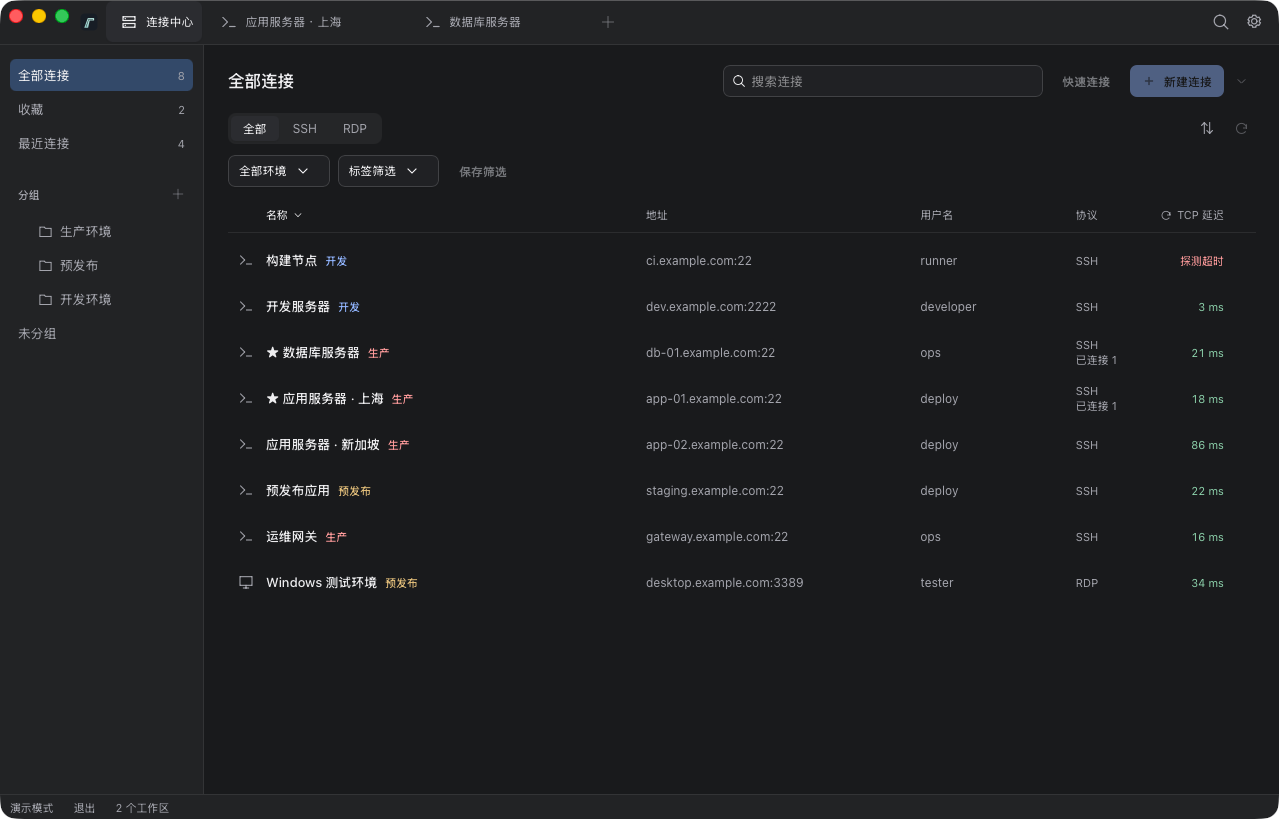
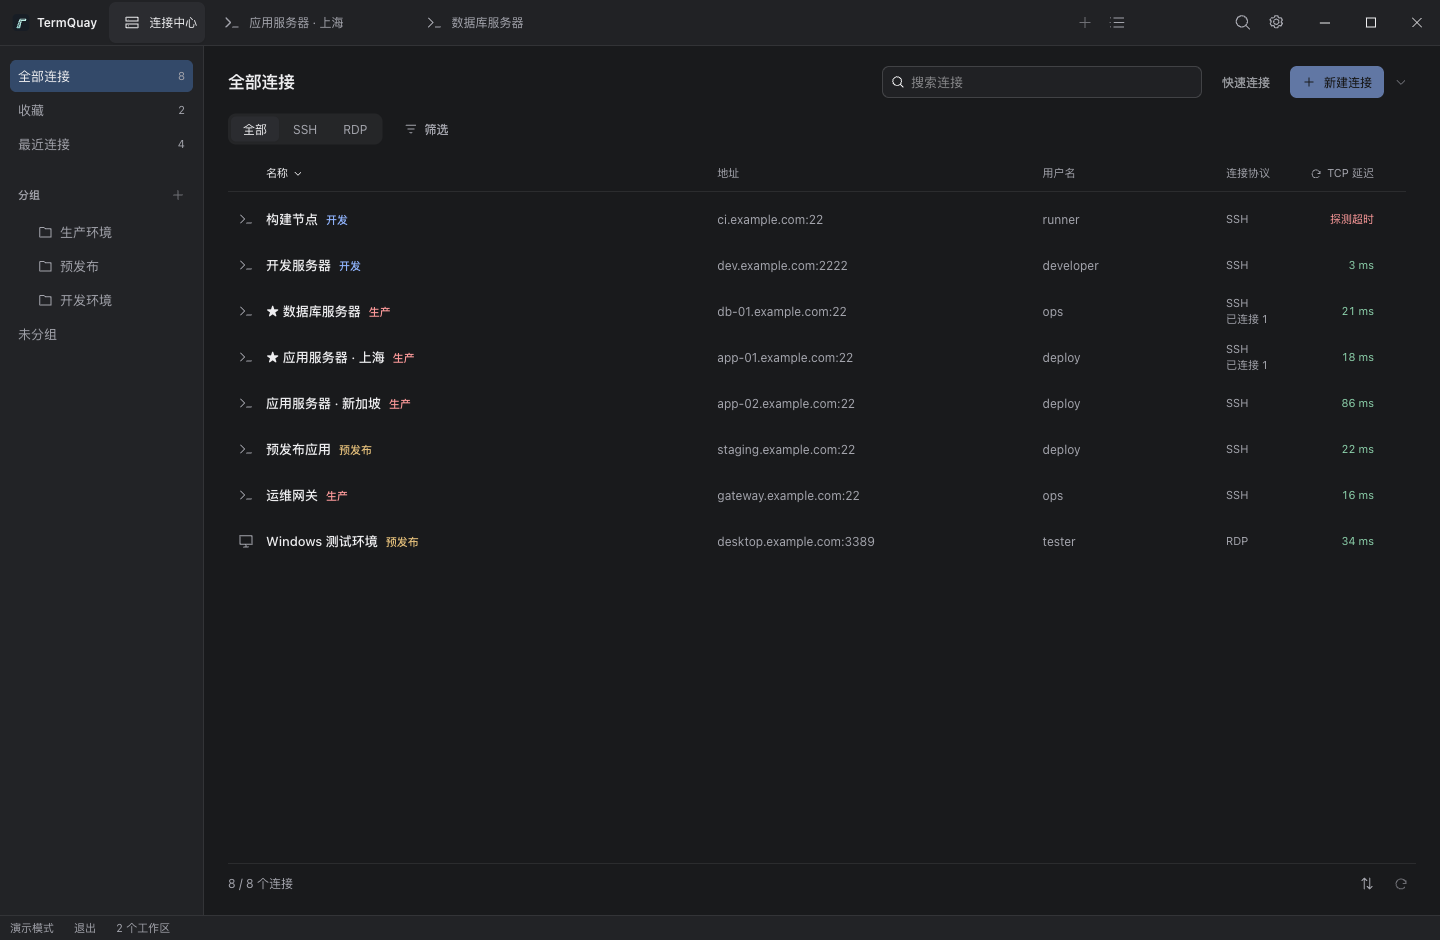
docs(readme): refresh English and Chinese demo screenshots

diff --git a/README.md b/README.md
@@ -43,13 +43,13 @@ Omit `-g` for a project installation. Specify `--skill termquay` to avoid instal
 <a id="界面预览"></a>
 ## Screenshots
 
-These existing screenshots show the Chinese interface in macOS native demo mode.
+These screenshots show the English interface in browser [demo mode](docs/development.md#using-the-workbench).
 
-![Connection center with groups, protocol filters and latency probes](docs/images/screenshots/connection-center.png)
+![Connection center with groups, protocol filters and latency probes](docs/images/screenshots/connection-center-en.png)
 
-![SSH terminal, remote files and Linux monitoring](docs/images/screenshots/ssh-workspace.png)
+![SSH terminal, remote files and Linux monitoring](docs/images/screenshots/ssh-workspace-en.png)
 
-![Remote editor with encoding, line endings and minimap](docs/images/screenshots/remote-file-editor.png)
+![Remote editor with encoding, line endings and minimap](docs/images/screenshots/remote-file-editor-en.png)
 
 <a id="运行与开发"></a>
 ## Build and contribute

diff --git a/README.zh-CN.md b/README.zh-CN.md
@@ -40,7 +40,7 @@ npx skills add Sanjeever/termquay --skill termquay -g
 
 ## 界面预览
 
-以下截图在 macOS 原生应用的 [演示模式](docs/development.zh-CN.md#设置与演示模式) 中截取。
+以下截图使用中文 UI，在浏览器 [演示模式](docs/development.zh-CN.md#设置与演示模式) 中截取。
 
 连接中心
 
